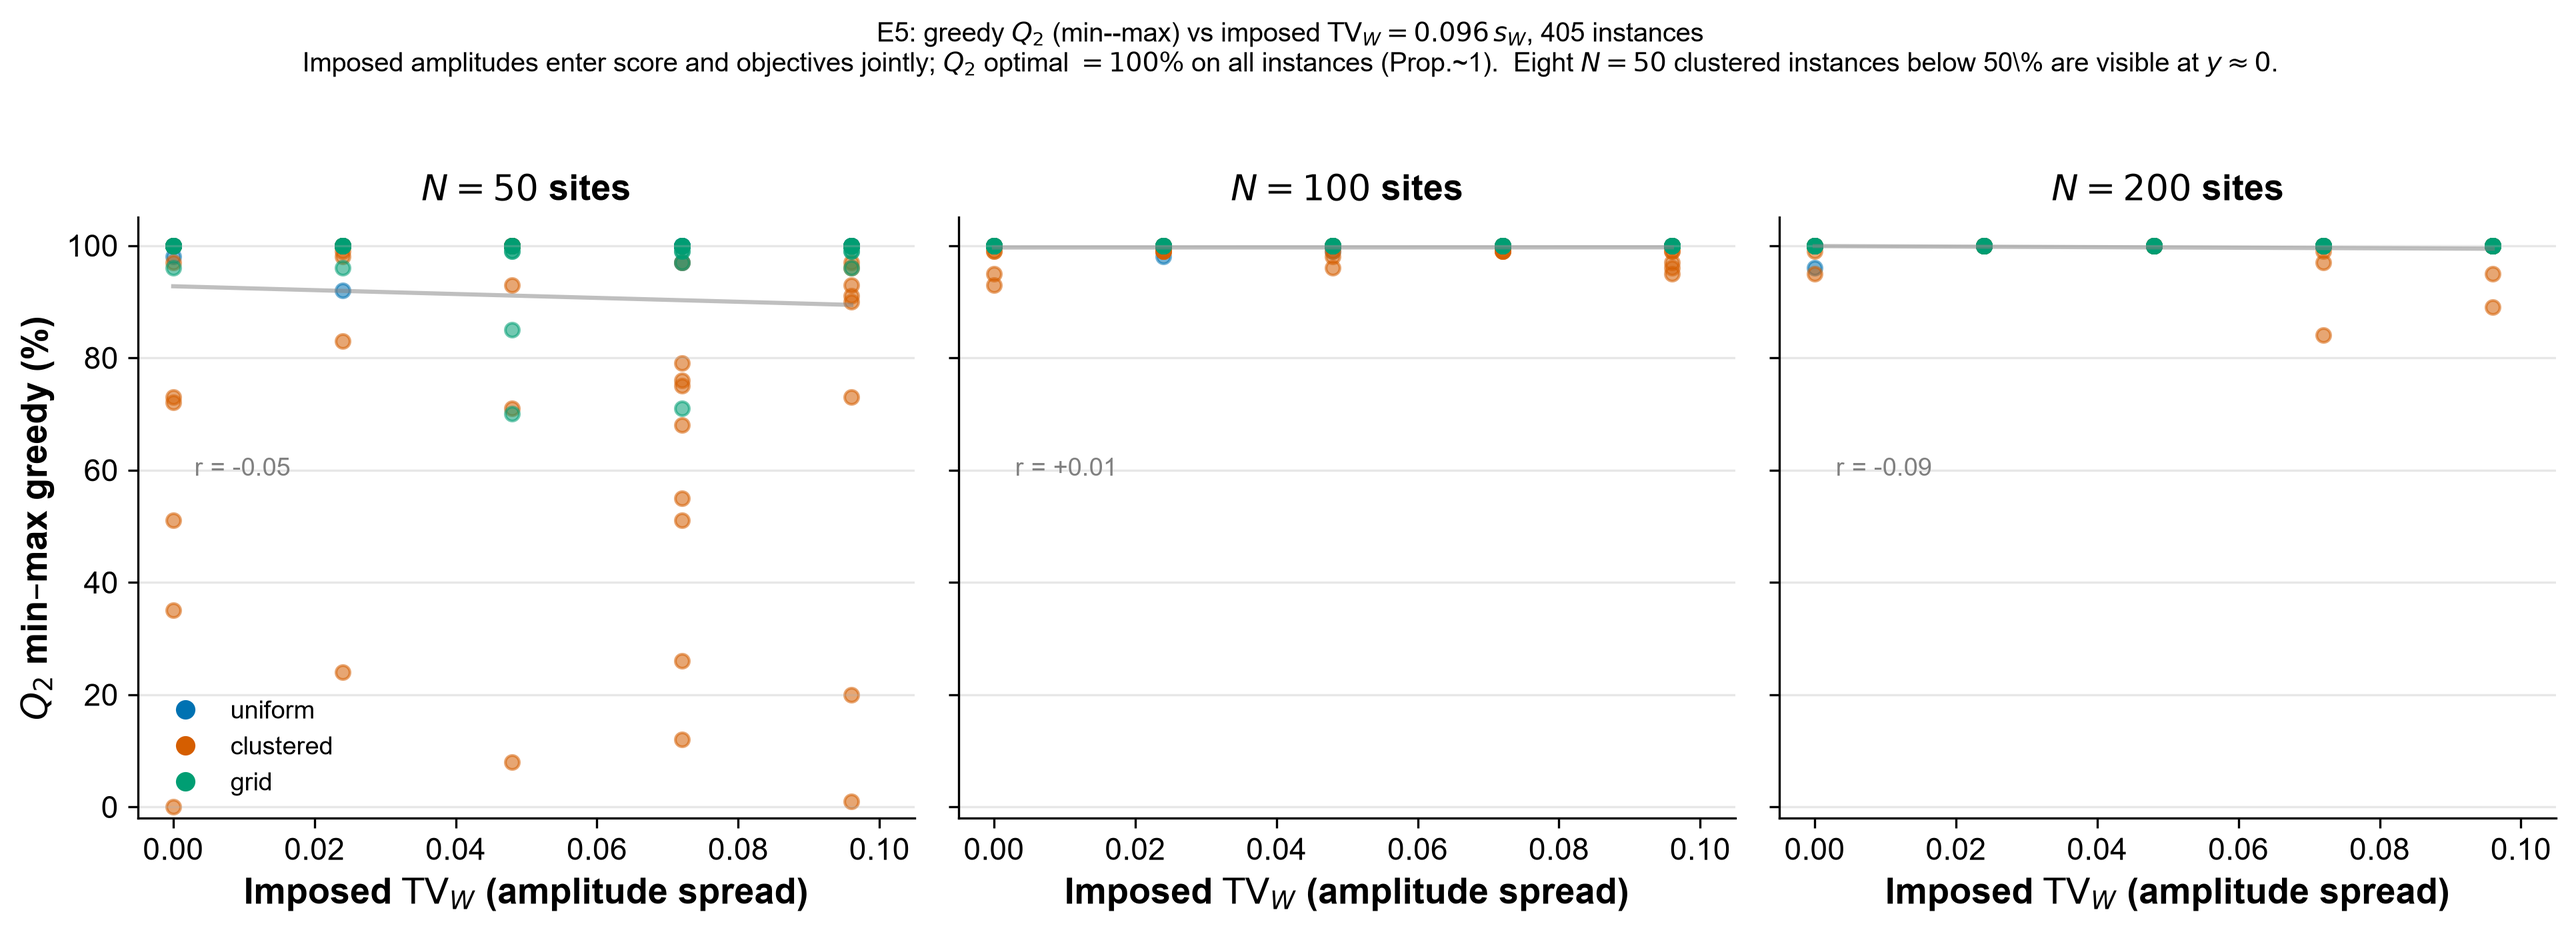
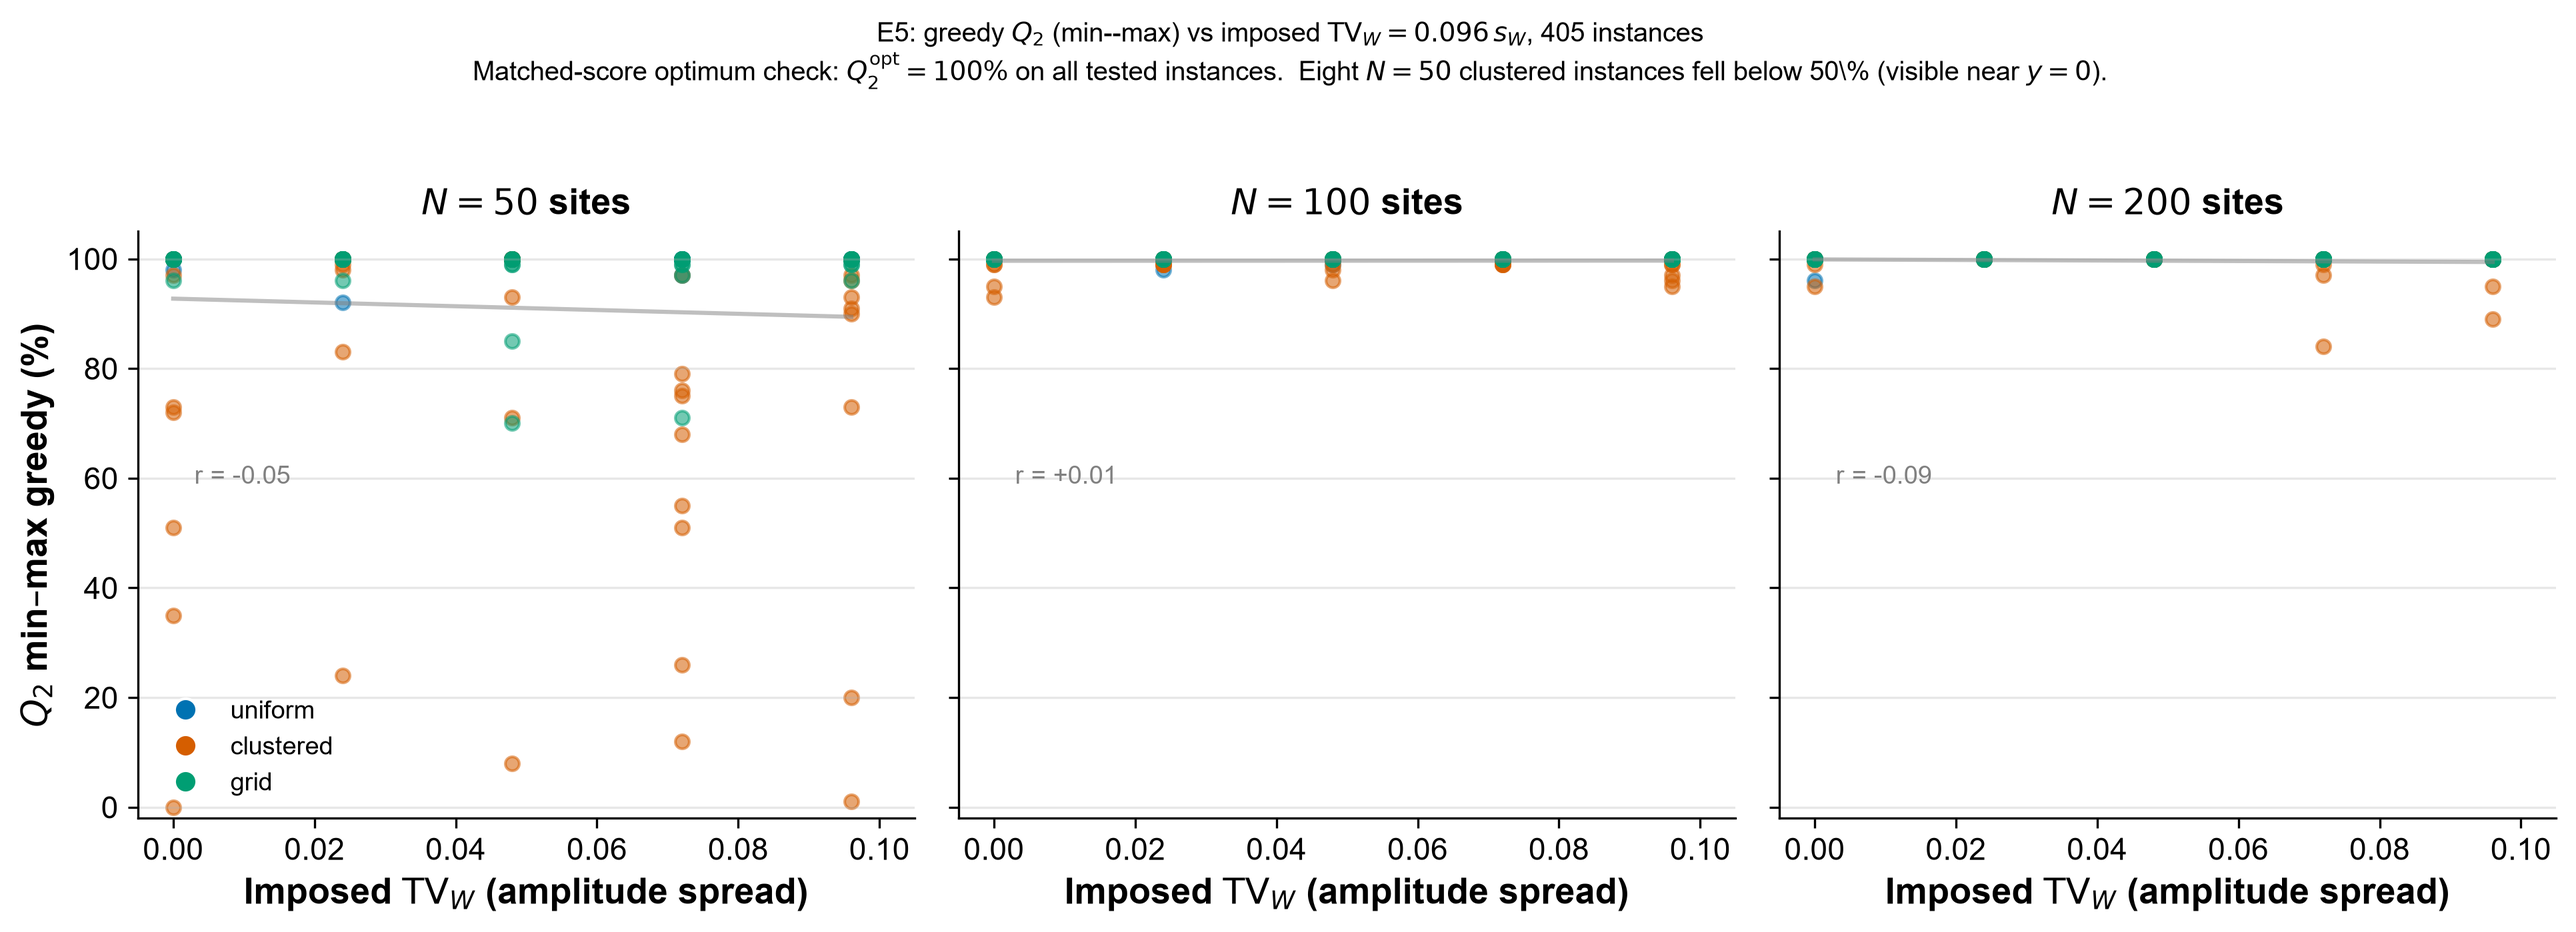
GPT audit response: fig_E5 subtitle 'matched-score optimum check' (not Prop~1); stat narrative 'no evidence of linear association' (not null effect); C=0 assembly failure documented separately from Q2; DEV-E5-005 with exact code lines (L263,L270); ALL CHECKS PASSED

diff --git a/supplementary.tex b/supplementary.tex
@@ -765,14 +765,22 @@ The executed design departs from it as follows.
   normalisation of the synthetic columns.
 \item[DEV-E5-005] \emph{Locus of the imposed amplitudes (critical).}
   The imposed amplitude vector $A_j$ enters \emph{both} the score
-  (\texttt{X\_score = X\_adj * Aj}) and the objectives
-  (\texttt{X\_obj\_amp = X\_obj * Aj}).
-  Score and evaluator are therefore aligned on every instance; by
-  Proposition~1, optimal assembly attains the frontier whatever the value
-  of $\mathrm{TV}_W$.
-  E5 consequently does not test Theorem~1, which concerns amplitudes that
-  differ between score and evaluator.
-  Its only informative outcome is greedy assembly.
+  and the objectives.
+  From \texttt{run\_e5\_grid.py} (commit \texttt{4d438b6}):
+  score matrix \texttt{X\_score = X\_adj * Aj[np.newaxis, :]} (line~263)
+  and objective matrix \texttt{X\_obj\_amp = X\_obj * Aj[np.newaxis, :]} (line~270).
+  Both objects use the same array \texttt{Aj}, so score and evaluator
+  have identical amplitude vectors.
+  By code inspection, $\mathrm{TV}_W > 0$ reflects spread \emph{within}
+  a common amplitude, not a mismatch \emph{between} score and evaluator
+  amplitudes.
+  When score and evaluator share the same amplitude, optimal assembly
+  is efficient by Theorem~\ref{thm:groupconst}; the
+  $Q_2^{\mathrm{opt}}=100\%$ results are therefore a pipeline consistency
+  check, not evidence about the amplitude-distortion mechanism.
+  E5 consequently does not test Theorem~\ref{thm:groupconst}, which
+  concerns amplitudes that differ between score and evaluator.
+  Its informative outcome is greedy assembly only.
 \item[DEV-E5-006] \emph{Primary analysis.}
   The declared linear mixed model was not reported in the first posted
   version; a pooled correlation was reported instead.
@@ -815,6 +823,11 @@ interval including zero in 25 of 25 non-degenerate
 $N\times\mathrm{geometry}\times s_B$ strata (two strata are constant
 at 100\%).
 Pooled $r(\mathrm{TV}_W,\,\text{loss})=0.034$ ($p=0.50$).
+We found no evidence of linear association between imposed amplitude
+spread and greedy loss in the model as fitted;
+the confidence interval ($[-5.1,\,+2.4]$~pp per $0.1$ of $\mathrm{TV}_W$)
+is consistent with small effects in either direction but excludes effects
+larger than approximately $5$~pp per $0.1$ of $\mathrm{TV}_W$.
 
 \textbf{Distribution of greedy loss.}
 329 of 405 instances (81\%) reach $Q_2^{\mathrm{grd}}=100\%$.
@@ -823,21 +836,31 @@ that stratum is 75.6\% (SD 31.8), against $\geq97.9\%$ in every other
 $N\times\mathrm{geometry}$ stratum.
 Within $N=50$ clustered the mean is not monotone in $s_W$
 (69.8, 89.3, 85.8, 59.9, 73.4\% for $s_W=0,\ldots,1$).
-One instance ($s_W=s_B=0$, 130 feasible trios) has
-$Q_2^{\mathrm{grd}}=0\%$; this is a combinatorial effect of
-the separation constraint leaving very few trios reachable by the
-greedy heuristic under small $N$ and clustered geometry, not an
-amplitude effect (TV$_W=0$ by construction in this cell).
+
+The instance with $s_W=s_B=0$ (130 feasible trios) has
+$Q_2^{\mathrm{grd}}=0\%$.
+Here $\mathrm{TV}_W=0$ by construction (no within-group amplitude spread),
+so amplitude is not the cause.
+Inspection shows the greedy heuristic failed to assemble a complete
+valid portfolio ($C=0$: no three mutually separated sites were reachable
+by the greedy top-down pass) on every draw of this instance.
+This is therefore an \emph{assembly failure}, not a dominance event.
+The reported $Q_2$ figures are unconditional:
+$Q_2^{\mathrm{grd}} = P(C \cap \text{frontier})$;
+the conditional efficiency $Q_2^{\mathrm{grd}} | C$ is undefined when $P(C)=0$.
+The $0\%$ instance should be read as a degenerate combinatorial
+outcome under extreme spatial clustering and the $d_{\min}$ separation
+constraint, not as evidence for or against the normalisation mechanism.
 
 \paragraph{Conclusion.}
 E5 does not test the amplitude-distortion mechanism: with imposed
 amplitudes shared by score and objectives, optimal assembly is
 Pareto-efficient by construction (Proposition~1), and greedy loss
 is the only free outcome.
-On that outcome, imposed within-group spread has no detectable effect;
-greedy loss is governed by instance size and spatial geometry, and
-concentrated in small clustered instances where the separation
-constraint leaves few feasible trios.
+On that outcome, we found no evidence of linear association between
+the imposed amplitude spread and greedy efficiency in the model as
+fitted; greedy loss is more strongly associated with instance size
+and spatial geometry.
 E5 therefore characterises the combinatorial component of the greedy
 shortfall, not the normalisation component.
 It contains no instance of Fogo's size ($N=389$, DEV-E5-001), and does

diff --git a/main.tex b/main.tex
@@ -2608,8 +2608,9 @@ outside its generating family.
 A second grid of 405 instances ($N\le200$, three geometries;
 Experiment~E5) imposes amplitudes on score and objectives jointly, so
 optimal assembly is efficient by construction and the grid does not
-test Theorem~\ref{thm:groupconst}; on greedy assembly, the imposed
-within-group spread has no detectable effect
+test Theorem~\ref{thm:groupconst}; on greedy assembly, we found no
+evidence of linear association between the imposed within-group spread
+and greedy loss in the model as fitted
 ($-1.3$~pp per $0.1$ of $\mathrm{TV}_W$,
 $95\%$ CI $[-5.1,\,+2.4]$), while instance size and spatial geometry
 dominate (Supplementary Material, Experiment~E5).
@@ -2670,9 +2671,10 @@ most of the loss, and falsified our prediction that the two components
 would not interact.
 A synthetic grid of 405 instances (Experiment~E5) characterises the
 greedy shortfall rather than the normalisation effect: with amplitudes
-imposed jointly on score and objectives, imposed within-group spread
-has no detectable effect on greedy efficiency, which is governed
-instead by instance size and spatial geometry.
+imposed jointly on score and objectives, we found no evidence of linear
+association between the imposed amplitude spread and greedy efficiency
+in the model as fitted; greedy efficiency was more strongly associated
+with instance size and spatial geometry.
 The Fogo magnitudes are therefore instance-specific, and whether the
 within-group mechanism carries comparable costs on other applied matrices
 remains open.

diff --git a/scripts/fig_E5_synthetic_grid.py b/scripts/fig_E5_synthetic_grid.py
@@ -77,8 +77,8 @@ axes[0].legend(handles=legend_elements, loc='lower left', frameon=False, fontsiz
 
 plt.suptitle(
     'E5: greedy $Q_2$ (min--max) vs imposed $\\mathrm{TV}_W = 0.096\\,s_W$, 405 instances\n'
-    'Imposed amplitudes enter score and objectives jointly; $Q_2$ optimal $=100\\%$ on all instances (Prop.~1).'
-    '  Eight $N=50$ clustered instances below 50\\% are visible at $y\\approx0$.',
+    'Matched-score optimum check: $Q_2^{\\mathrm{opt}}=100\\%$ on all tested instances.'
+    '  Eight $N=50$ clustered instances fell below 50\\% (visible near $y=0$).',
     fontsize=9.5, y=1.03
 )
 plt.tight_layout()
